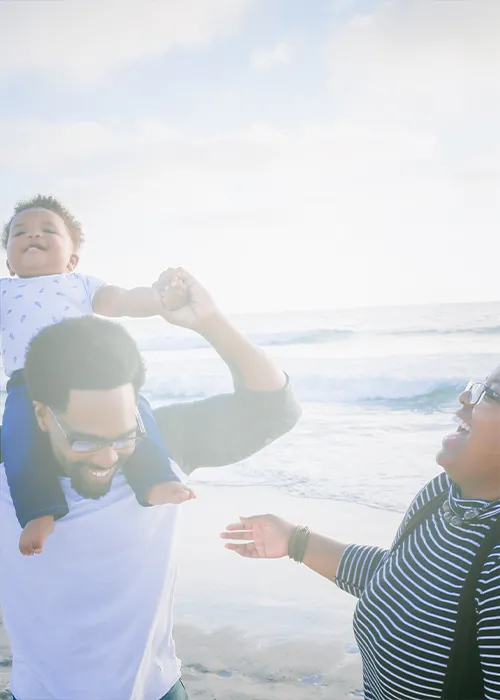
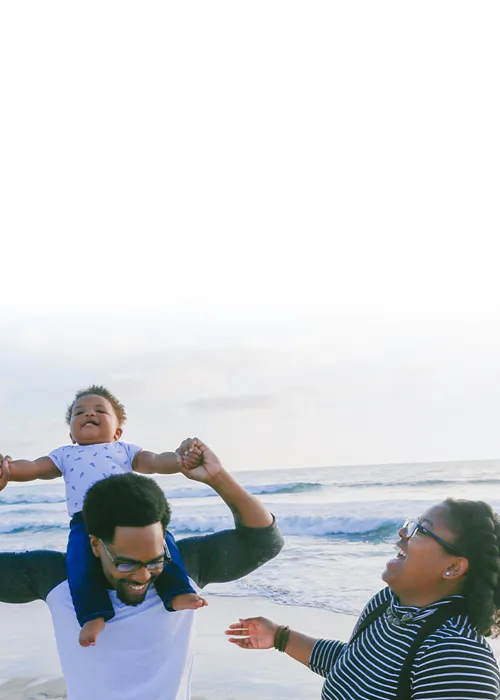
update hero images

diff --git a/scss/components/layout/_hero.scss b/scss/components/layout/_hero.scss
@@ -1,64 +1,79 @@
 .hero-accounting-and-tax-services {
-    background:  $hero-background ;
+    background: $hero-background;
     background-size: $background-cover;
-    background-position: $background-center;
+    background-position-x: $background-x;
+    background-position-y: $background-y;
     background-blend-mode: $background-overlay;
-    padding: $hero-padding;
+    padding: $hero-padding-mobile;
     background-image: url("/images/hero/hero-accounting-and-tax-services-500x700.webp");
 
     @media only screen and (min-width: $medium) {
-        background-image: url("/images/hero/hero-accounting-and-tax-services-1600x580.webp");
+        background-image: url("/images/hero/hero-accounting-and-tax-services-1600x469.webp");
+        background-position: $background-center;
+        padding: $hero-padding;
     }
 }
 
 .hero-credit-restoration {
-    background:  $hero-background ;
+    background: $hero-background;
     background-size: $background-cover;
-    background-position: $background-center;
+    background-position-x: $background-x;
+    background-position-y: $background-y;
     background-blend-mode: $background-overlay;
-    padding: $hero-padding;
+    padding: $hero-padding-mobile;
     background-image: url("/images/hero/hero-credit-restoration-500x700.webp");
 
     @media only screen and (min-width: $medium) {
-        background-image: url("/images/hero/hero-credit-restoration-1600x580.webp");
+        background-image: url("/images/hero/hero-credit-restoration-1600x469.webp");
+        background-position: $background-center;
+        padding: $hero-padding;
     }
 }
 
 .hero-financial-education {
-    background:  $hero-background ;
+    background: $hero-background;
     background-size: $background-cover;
-    background-position: $background-center;
+    background-position-x: $background-x;
+    background-position-y: $background-y;
     background-blend-mode: $background-overlay;
-    padding: $hero-padding;
+    padding: $hero-padding-mobile;
     background-image: url("/images/hero/hero-financial-education-500x700.webp");
 
     @media only screen and (min-width: $medium) {
-        background-image: url("/images/hero/hero-financial-education-1600x580.webp");
+        background-image: url("/images/hero/hero-financial-education-1600x469.webp");
+        background-position: $background-center;
+        padding: $hero-padding;
     }
 }
 
 .hero-home {
-    background:  $hero-background ;
+    background: $hero-background;
     background-size: $background-cover;
-    background-position: $background-center;
+    background-position-x: $background-x;
+    background-position-y: $background-y;
     background-blend-mode: $background-overlay;
-    padding: $hero-padding;
+    padding: $hero-padding-mobile;
     background-image: url("/images/hero/hero-home-500x700.webp");
 
     @media only screen and (min-width: $medium) {
-        background-image: url("/images/hero/hero-home-1600x580.webp");
+        background-image: url("/images/hero/hero-home-1600x469.webp");
+        background-position: $background-center;
+        padding: $hero-padding;
     }
 }
 
 .hero-private-small-business-network {
-    background:  $hero-background ;
+    background: $hero-background;
     background-size: $background-cover;
-    background-position: $background-center;
+    background-position-x: $background-x;
+    background-position-y: $background-y;
     background-blend-mode: $background-overlay;
-    padding: $hero-padding;
+    padding: $hero-padding-mobile;
     background-image: url("/images/hero/hero-private-small-business-network-500x700.webp");
 
     @media only screen and (min-width: $medium) {
-        background-image: url("/images/hero/hero-private-small-business-network-1600x580.webp");
+        background-image: url("/images/hero/hero-private-small-business-network-1600x469.webp");
+        background-position: $background-center;
+        padding: $hero-padding;
     }
 }

diff --git a/components/common/Footer.jsx b/components/common/Footer.jsx
@@ -21,8 +21,6 @@ export default function Footer() {
             <Container fluid className="footer">
                 <Container>
                     <Row className="block">
-
-
                         <Col lg={{ span: 4, order: 1 }}>
                             <Link href="/" passHref>
                                 <LazyLoadImage className="logo"
@@ -32,7 +30,7 @@ export default function Footer() {
                             </Link><br />
                         </Col>
 
-                        <Col lg={{ span: 4, order: 0 }}>
+                        <Col lg={{ span: 4, order: 0 }} className="mt-lg-4">
                             <ul>
                                 <li>
                                     <a href="tel:4693738788">469-373-8788
@@ -45,7 +43,7 @@ export default function Footer() {
                                 </li>
                             </ul>
                         </Col>
-                        <Col lg={{ span: 4, order: 2 }}>
+                        <Col lg={{ span: 4, order: 2 }} className="mt-lg-4">
                             <ul>
                                 <li><Link href="/private-small-business-network">Private Small Business Network</Link></li>
                                 <li><Link href="/accounting-and-tax-services">Accounting and Tax Services</Link></li>

diff --git a/scss/custom/variables.scss b/scss/custom/variables.scss
@@ -14,6 +14,8 @@ $white: #fff;
 $background-bottom-center: bottom center;
 $background-color: $white;
 $background-center: center center;
+$background-x: center;
+$background-y: 80%;
 $background-cover: cover;
 $background-overlay: multiply;
 $background-overlay-hover: soft-light;
@@ -75,7 +77,7 @@ $h1-font-weight: 900;
 
 $h2-font-size: 2.2rem;
 $h2-font-size-mobile: 1.75rem;
-$h2-margin-bottom: 1.5rem;
+$h2-margin-bottom: 2rem;
 
 $footer-font-color: $white;
 $footer-font-size: 1rem;
@@ -112,5 +114,7 @@ $offcanvas-header-font-color: $white;
 // padding and margins
 $block-padding: 2rem;
 $hero-padding: 6rem 0;
+$hero-padding-mobile: 4rem 0 10rem;
 $image-padding: 0;
 $section-padding: 4rem 0 2rem;
+$section-padding-large: 4rem 0 2rem;

diff --git a/scss/components/common/_typography.scss b/scss/components/common/_typography.scss
@@ -52,8 +52,9 @@ h6 {
 }
 
 h1 {
+  text-align: center;
   font-size: $h1-font-size-mobile;
-  font-weight: $h1-font-weight;
+  font-weight: $h1-font-weight
 }
 
 h2 {
@@ -68,6 +69,7 @@ h2 {
 
   h1 {
     display: flex;
+    text-align: left;
     font-size: $h1-font-size;
     font-weight: $h1-font-weight;
     min-height: 96px;

diff --git a/scss/components/layout/_footer.scss b/scss/components/layout/_footer.scss
@@ -23,9 +23,9 @@ footer {
         }
 
         .logo {
-            max-width: 250px;
+            max-width: 200px;
             width: 100%;
-            margin-top: -8rem;
+            margin-top: -6rem;
             margin-bottom: 1rem;
             z-index: 1;
             cursor: pointer;

diff --git a/scss/styles.scss b/scss/styles.scss
@@ -14,6 +14,7 @@ a {
 * {
   box-sizing: border-box;
 }
+
 @import 'custom/variables.scss'; 
 
 @import 'components/common/common.scss';

diff --git a/scss/components/layout/_sections.scss b/scss/components/layout/_sections.scss
@@ -8,7 +8,7 @@ body {
 }
 
 .row {
-    align-items:center;
+    align-items:top;
 }
 
 .block {
